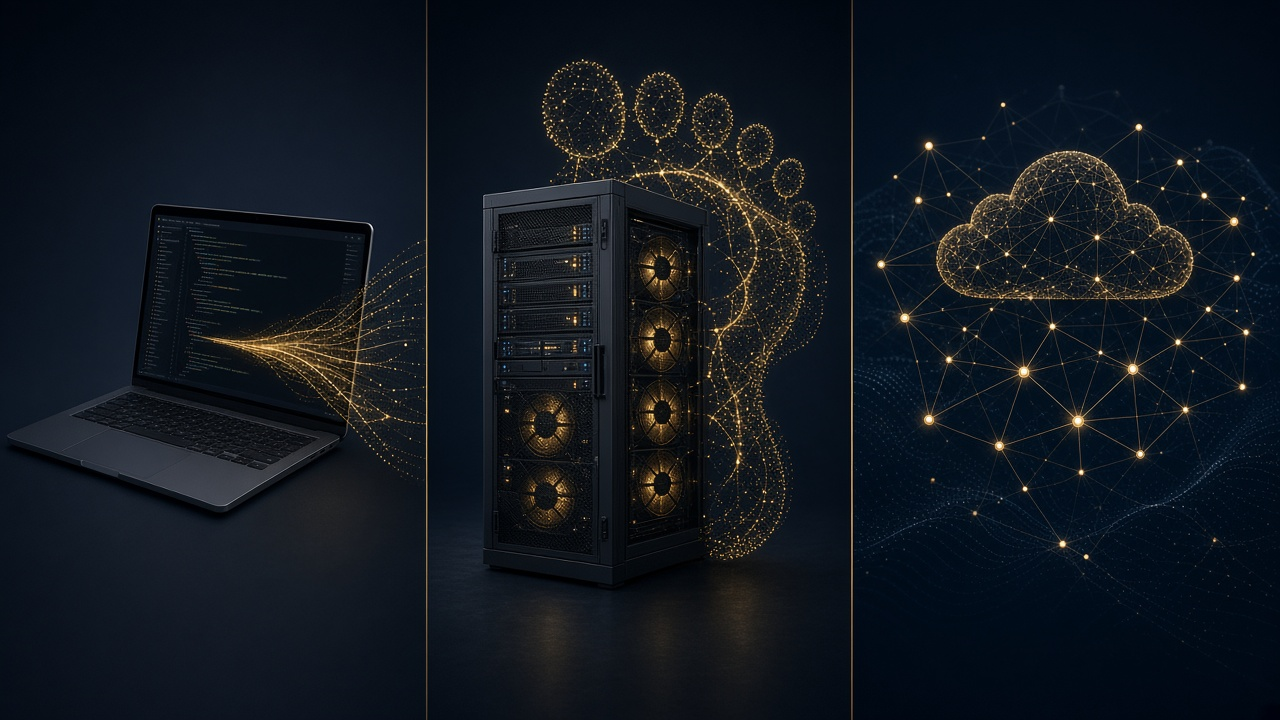
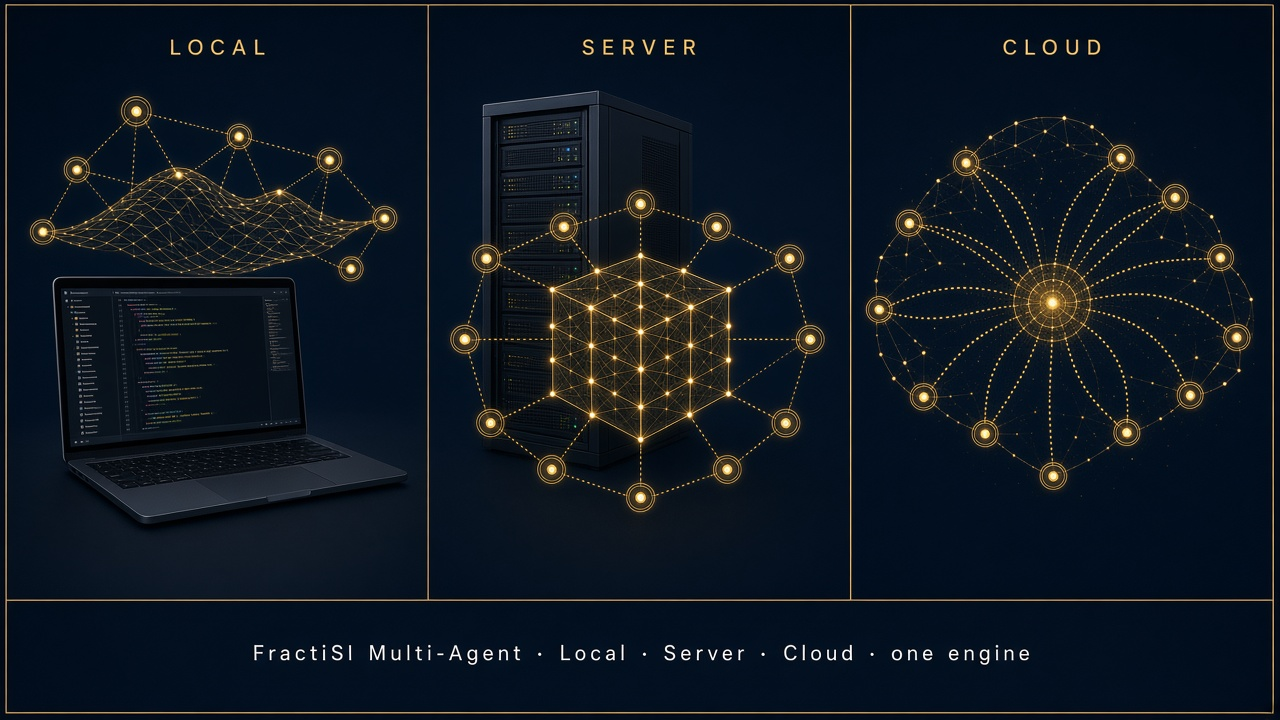
Sync FractiSI Multi-Agent visuals and shot messaging from kit.

diff --git a/docs/web/product-hub.html b/docs/web/product-hub.html
@@ -8,7 +8,7 @@
   <meta name="description" content="FractiSI Multi-Agent: shared-world intelligence and convergence. Tiny Footprint core · Tiny Gateway™. Community free · Pro $59 · Team $299." />
   <link rel="canonical" href="https://www.ssvibelandiaquestfest24x365.com/tiny-footprint" />
   <meta property="og:title" content="FractiSI Multi-Agent · One shared world. Many perspectives." />
-  <meta property="og:image" content="./media/tiny-footprint-hero.jpg" />
+  <meta property="og:image" content="./media/fractisi-hero.jpg?v=19" />
   <link rel="stylesheet" href="./brand-gold-surfaces.css" />
   <link rel="stylesheet" href="./tiny-footprint-product.css" />
 </head>
@@ -27,7 +27,7 @@
   </nav>
 
   <header class="tf-hero" aria-label="FractiSI Multi-Agent">
-    <div class="tf-hero__bg" style="background-image:url('./media/tiny-footprint-hero.jpg')"></div>
+    <div class="tf-hero__bg" style="background-image:url('./media/fractisi-hero.jpg?v=19')"></div>
     <div class="tf-hero__veil"></div>
     <div class="tf-hero__content">
       <p class="tf-kicker">FractiSI · flagship product · Tiny Footprint core · Tiny Gateway™</p>
@@ -134,7 +134,7 @@
     </div>
 
     <figure class="tf-figure">
-      <img src="./media/tiny-footprint-architecture.jpg" alt="Tiny Footprint layered architecture from application to hardware" width="1200" height="900" loading="lazy" />
+      <img src="./media/fractisi-architecture.jpg?v=19" alt="FractiSI Multi-Agent layered architecture from agent runtimes to customer hardware" width="1200" height="900" loading="lazy" />
       <figcaption>Shared-world layer: your stack stays; FractiSI Multi-Agent / Tiny Footprint sits beside it; Tiny Gateway is the engine.</figcaption>
     </figure>
 
@@ -147,8 +147,8 @@
     </div>
 
     <figure class="tf-figure">
-      <img src="./media/tiny-footprint-markets.jpg" alt="Local, Server, and Cloud Tiny Footprint markets" width="1200" height="675" loading="lazy" />
-      <figcaption>One technology · three deployment markets: Local · Server · Cloud.</figcaption>
+      <img src="./media/fractisi-markets.jpg?v=19" alt="FractiSI Multi-Agent Local, Server, and Cloud — one engine" width="1200" height="675" loading="lazy" />
+      <figcaption>One FractiSI Multi-Agent engine · three markets: Local · Server · Cloud.</figcaption>
     </figure>
 
     <div class="tf-grid">
@@ -184,8 +184,8 @@
 
     <h2>Workstation · your IDE is the lab</h2>
     <figure class="tf-figure">
-      <img src="./media/tiny-footprint-workstation.jpg" alt="Tiny Footprint Workstation IDE concept" width="1200" height="675" loading="lazy" />
-      <figcaption>Download → Open in IDE → Configure → Run → Compare → Integrate → Deploy.</figcaption>
+      <img src="./media/fractisi-workstation.jpg?v=19" alt="FractiSI Multi-Agent Workstation — shared world, agents, approval gate" width="1200" height="675" loading="lazy" />
+      <figcaption>Clone → export token → try → live preview beside the stack you already run.</figcaption>
     </figure>
     <p>First success criterion: a developer downloads the kit, opens it in VS Code, runs <code>tiny doctor</code> → <code>install</code> → <code>demo</code> → <code>benchmark</code> → <code>report</code>, and gets a reproducible comparison without FractiAI operating the box.</p>
     <div class="tf-cta">

diff --git a/product/index.html b/product/index.html
@@ -5,7 +5,7 @@
   <meta name="viewport" content="width=device-width, initial-scale=1">
   <title>FractiSI Multi-Agent · FractiSI</title>
   <meta name="description" content="FractiSI Multi-Agent: 100/100 vs flat, −50% rounds, 36–62× density, ~42%+ after gzip, rhyme vs exact-text cache, Tiny Gateway 84.5%/81.4%.">
-  <link rel="stylesheet" href="../css/site.css?v=18">
+  <link rel="stylesheet" href="../css/site.css?v=19">
 </head>
 <body>
   <header class="nav">
@@ -22,7 +22,7 @@
     </nav>
   </header>
 
-  <img class="banner" src="../media/tiny-footprint-hero.jpg" alt="FractiSI Multi-Agent: a gold network converging on a small leaf mark.">
+  <img class="banner" src="../media/fractisi-hero.jpg?v=19" alt="FractiSI Multi-Agent: one shared world, many perspectives, faster convergence.">
   <main class="wrap">
     <article class="page">
       <p class="kicker">Flagship · multi-agent intelligence &amp; convergence · <a href="/product/pricing/">freemium pricing</a></p>
@@ -102,8 +102,8 @@
       <p>The multi-agent cloud pays a hidden tax: every agent carries a full copy of the same context, then collides at merge time. <strong>FractiSI Multi-Agent</strong> registers the world once (Tiny Footprint), coordinates ownership, composes contributions, and deploys only after approval. <a href="/open/">Why we stay open →</a></p>
 
       <figure class="figure">
-        <img src="../media/tiny-footprint-architecture.jpg" alt="FractiSI Multi-Agent / Tiny Footprint sits between an application and the hardware it already uses.">
-        <figcaption>Your agents stay. The shared world is stored once. Tiny Gateway is the engine inside.</figcaption>
+        <img src="../media/fractisi-architecture.jpg?v=19" alt="FractiSI Multi-Agent stack: agent runtimes you already run, platform layers, Tiny Footprint core, your hardware.">
+        <figcaption>Your runtimes stay. FractiSI Multi-Agent coordinates and composes. Tiny Footprint keeps the world once.</figcaption>
       </figure>
       <p><a href="/product/pricing/">See full pricing &amp; packaging →</a></p>
 
@@ -154,8 +154,8 @@
 
       <h2>Workstation</h2>
       <figure class="figure">
-        <img src="../media/tiny-footprint-workstation.jpg" alt="The Workstation kit opens in an editor on the developer’s own computer.">
-        <figcaption>Clone. Export token. Run try. Open the preview URL.</figcaption>
+        <img src="../media/fractisi-workstation.jpg?v=19" alt="FractiSI Multi-Agent Workstation: agents on a shared world with an approval-gated release path.">
+        <figcaption>Clone. Export token. Run try. Preview beside Cursor, Claude Code, and VS Code.</figcaption>
       </figure>
       <p><strong>Install and use.</strong> You need Git and a cloud token (<code>VERCEL_TOKEN</code> or <code>FRACTISI_CLOUD_TOKEN</code> from <a href="https://vercel.com/account/tokens">vercel.com/account/tokens</a>). Node 18+. No other API keys.</p>
       <pre><code>git clone https://github.com/FractiAI/FractiSI-Multi-Agent.git

diff --git a/index.html b/index.html
@@ -5,7 +5,7 @@
   <meta name="viewport" content="width=device-width, initial-scale=1">
   <title>FractiSI · FractiSI Multi-Agent</title>
   <meta name="description" content="FractiSI Multi-Agent — shared-world intelligence and convergence: 100/100 vs flat, −50% rounds, 36–62× density, ~42%+ after gzip. Community free · Pro $59 · Team $299.">
-  <link rel="stylesheet" href="css/site.css?v=18">
+  <link rel="stylesheet" href="css/site.css?v=19">
 </head>
 <body>
   <p class="announce" role="status">
@@ -106,26 +106,26 @@
       <p>Try path: <strong>Git + cloud token</strong> → <code>node scripts/tiny.mjs try</code> → live preview URL. Runs beside Cursor, Claude Code, and VS Code.</p>
       <p><a href="/product/"><strong>FractiSI Multi-Agent</strong> — the flagship. Tiny Footprint is the engine inside.</a></p>
     </div>
-    <img class="stage-visual" src="media/tiny-footprint-hero.jpg" alt="A gold network converging on a small leaf mark, on a dark field.">
+    <img class="stage-visual" src="media/fractisi-hero.jpg?v=19" alt="FractiSI Multi-Agent: many gold agent perspectives converging into one shared world.">
   </section>
 
   <main class="wrap">
 
     <section class="shots">
       <a href="/product/">
-        <img src="media/tiny-footprint-markets.jpg" alt="A laptop, a server, and a cloud, each trailed by a gold network.">
+        <img src="media/fractisi-markets.jpg?v=19" alt="FractiSI Multi-Agent on Local, Server, and Cloud — one shared-world engine.">
         <h2>Product</h2>
-        <p>Workstation 0.2 platform. Layers A–F. Local, Server, and Cloud share one engine.</p>
+        <p>Shared-world intelligence &amp; convergence. Local, Server, and Cloud — one engine.</p>
       </a>
       <a href="/library/papers/fractisi-multi-agent-platform/">
-        <img src="media/tiny-footprint-architecture.jpg" alt="Layered diagram from the customer application down to customer hardware.">
+        <img src="media/fractisi-architecture.jpg?v=19" alt="FractiSI Multi-Agent layered stack from agent runtimes you already run down to your hardware.">
         <h2>Architecture</h2>
-        <p>Coordination, composition, Git, deploy — with Tiny Footprint at Layer A.</p>
+        <p>Beside Cursor, Claude Code, VS Code, and Git. Tiny Footprint is Layer A.</p>
       </a>
       <a href="/open/">
-        <img src="media/tiny-footprint-workstation.jpg" alt="The Workstation kit, opened as a developer environment.">
+        <img src="media/fractisi-workstation.jpg?v=19" alt="FractiSI Multi-Agent Workstation: multi-agent session, shared world, approval gate.">
         <h2>Open source</h2>
-        <p>Clone. Export token. Run try. Community kit free.</p>
+        <p>Clone. Export token. Run try. Live preview beside the stack you already use.</p>
       </a>
     </section>
 

diff --git a/product/pricing/index.html b/product/pricing/index.html
@@ -5,7 +5,7 @@
   <meta name="viewport" content="width=device-width, initial-scale=1">
   <title>FractiSI Multi-Agent · Freemium Pricing &amp; Packaging</title>
   <meta name="description" content="FractiSI Multi-Agent intelligence platform: Community free · Developer Pro $59/mo · Team $299/mo · Enterprise from $30k/yr. Discovery, convergence, density — not just coordination.">
-  <link rel="stylesheet" href="../../css/site.css?v=18">
+  <link rel="stylesheet" href="../../css/site.css?v=19">
   <style>
     .price-grid { display:grid; gap:1.25rem; margin:1.5rem 0 2rem; }
     @media (min-width: 900px) {
@@ -64,7 +64,7 @@
     </nav>
   </header>
 
-  <img class="banner" src="../../media/tiny-footprint-markets.jpg" alt="Laptop, server, and cloud — Local, Server, and Cloud editions.">
+  <img class="banner" src="../../media/fractisi-markets.jpg?v=19" alt="FractiSI Multi-Agent editions: Local, Server, and Cloud — one engine.">
   <main class="wrap">
     <article class="page">
       <p class="kicker">Commercial · Freemium · revised November 2026 · proposed launch pricing</p>

diff --git a/docs/web/expedition-002-brochure.html b/docs/web/expedition-002-brochure.html
@@ -5,7 +5,7 @@
   <meta name="viewport" content="width=device-width, initial-scale=1">
   <title>FractiSI · FractiSI Multi-Agent · Expedition 002 Brochure</title>
   <meta name="description" content="One world. Many agents. Minimal duplicated state — plus Expedition 002 discovery findings.">
-  <link rel="stylesheet" href="../../css/site.css?v=18">
+  <link rel="stylesheet" href="../../css/site.css?v=19">
   <style>
     .brochure { max-width: 48rem; }
     .brochure h2 { margin-top: 2rem; }
@@ -24,7 +24,7 @@
     <a class="button" href="https://github.com/FractiAI/FractiSI-Multi-Agent">Try FractiSI Multi-Agent</a>
   </nav>
 </header>
-<img class="banner" src="../../media/tiny-footprint-hero.jpg" alt="">
+<img class="banner" src="../../media/fractisi-hero.jpg?v=19" alt="">
 <main class="wrap brochure">
   <article class="page">
     <p class="kicker">FractiSI &amp; FractiSI Multi-Agent · November 2026</p>

diff --git a/docs/web/commercial-brochure-print.html b/docs/web/commercial-brochure-print.html
@@ -19,7 +19,7 @@
 <body data-tf-local-kit="1" data-tf-local-kit="1" class="tf-product">
   <nav class="tf-nav no-print"><a href="./product-hub.html">Hub</a><button class="tf-btn tf-btn--gold" onclick="window.print()">Print / Save PDF</button></nav>
   <main class="tf-wrap">
-    <img src="./media/tiny-footprint-hero.jpg" alt="" style="width:100%;max-height:12rem;object-fit:cover;margin-bottom:1rem" />
+    <img src="./media/fractisi-hero.jpg?v=19" alt="" style="width:100%;max-height:12rem;object-fit:cover;margin-bottom:1rem" />
     <p class="tf-kicker">FractiSI · flagship · Tiny Footprint core · Tiny Gateway™</p>
     <h1 class="tf-brand" style="font-size:3rem">FRACTISI MULTI-AGENT</h1>
     <p class="tf-tagline">One shared world. Many perspectives. New discoveries. Faster convergence.</p>

diff --git a/media/README.md b/media/README.md
@@ -1,15 +1,14 @@
-# Media
+# FractiSI site media
 
-FractiAI's product images. The manuscript reproduces the architecture schematic as a labelled vendor figure.
+Canonical marketing visuals for **FractiSI Multi-Agent** (Tiny Footprint = Layer A core).
 
-## Contents
+| File | Role |
+|------|------|
+| `fractisi-hero.jpg` | Home / product hero — shared-world intelligence & convergence |
+| `fractisi-markets.jpg` | Local · Server · Cloud — one engine |
+| `fractisi-architecture.jpg` | Platform stack beside runtimes you already run |
+| `fractisi-workstation.jpg` | Workstation try path · shared world · approval gate |
 
-| Path | What it is |
-|---|---|
-| [`el-cortez.jpg`](el-cortez.jpg) | Website image, used by the FractiSI site |
-| [`founders.png`](founders.png) | Website image, used by the FractiSI site |
-| [`library-hero.jpg`](library-hero.jpg) | Website image, used by the library page |
-| [`tiny-footprint-architecture.jpg`](tiny-footprint-architecture.jpg) | The layered architecture schematic |
-| [`tiny-footprint-hero.jpg`](tiny-footprint-hero.jpg) | The product hero image |
-| [`tiny-footprint-markets.jpg`](tiny-footprint-markets.jpg) | The three markets |
-| [`tiny-footprint-workstation.jpg`](tiny-footprint-workstation.jpg) | The workstation kit |
+Legacy filenames `tiny-footprint-*.jpg` are kept as identical copies for older links.
+
+Voice lock: *One shared world. Many perspectives. New discoveries. Faster convergence.*
